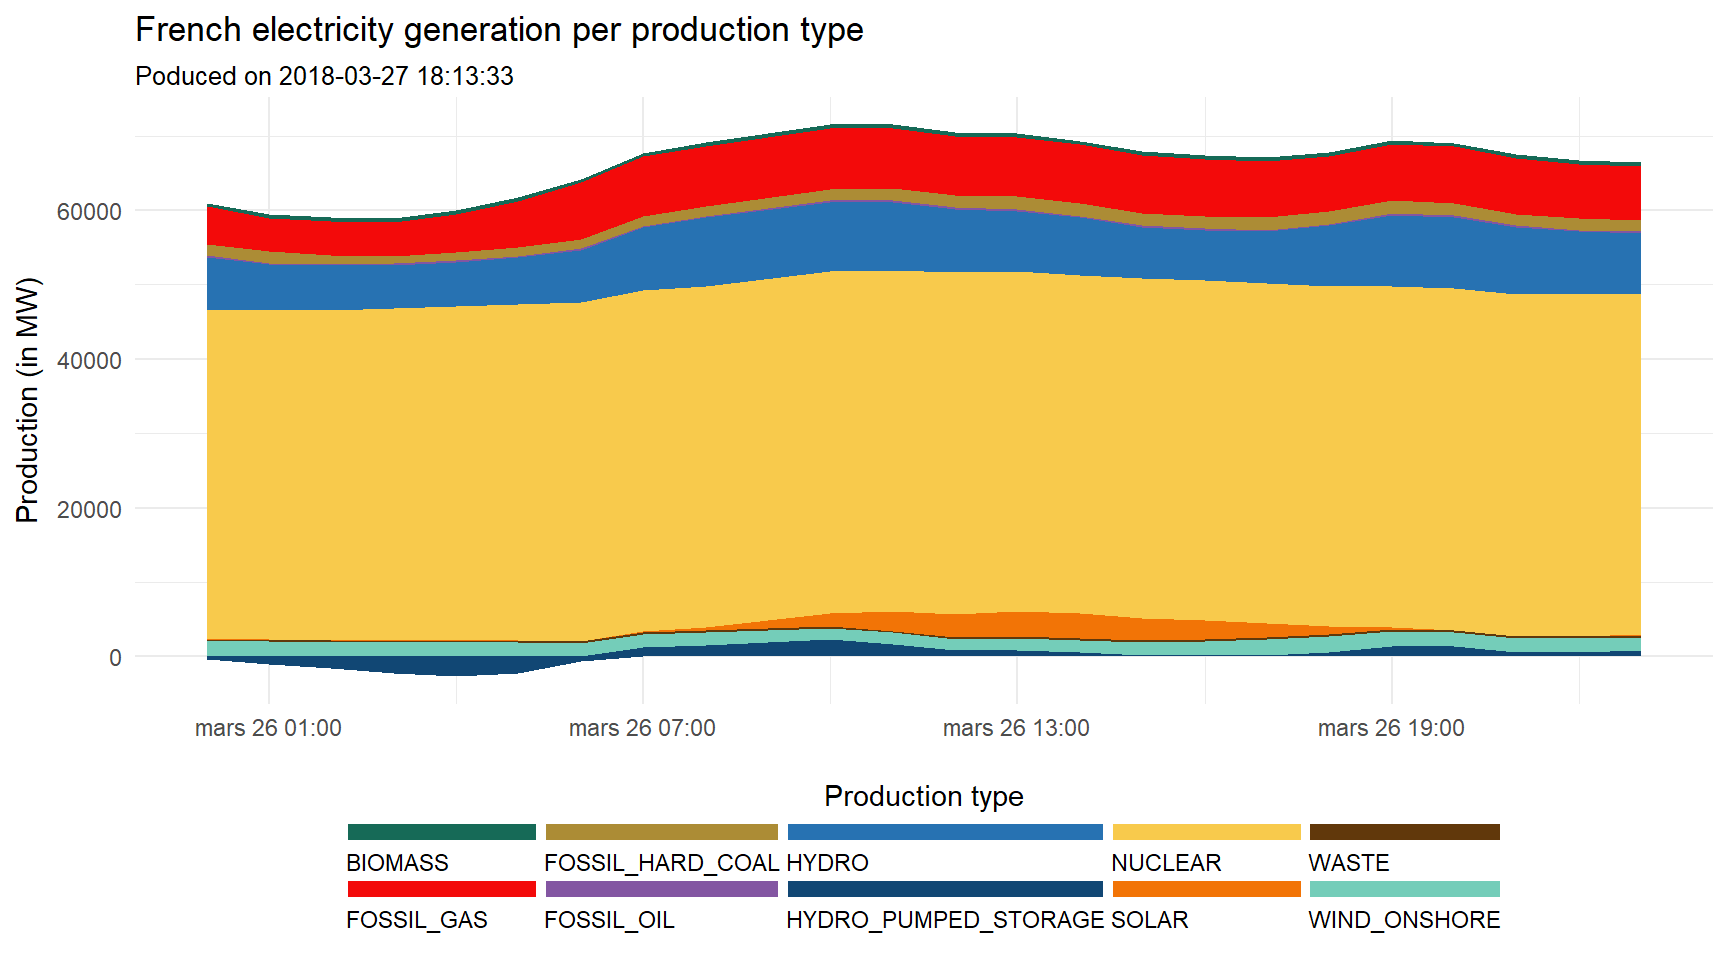
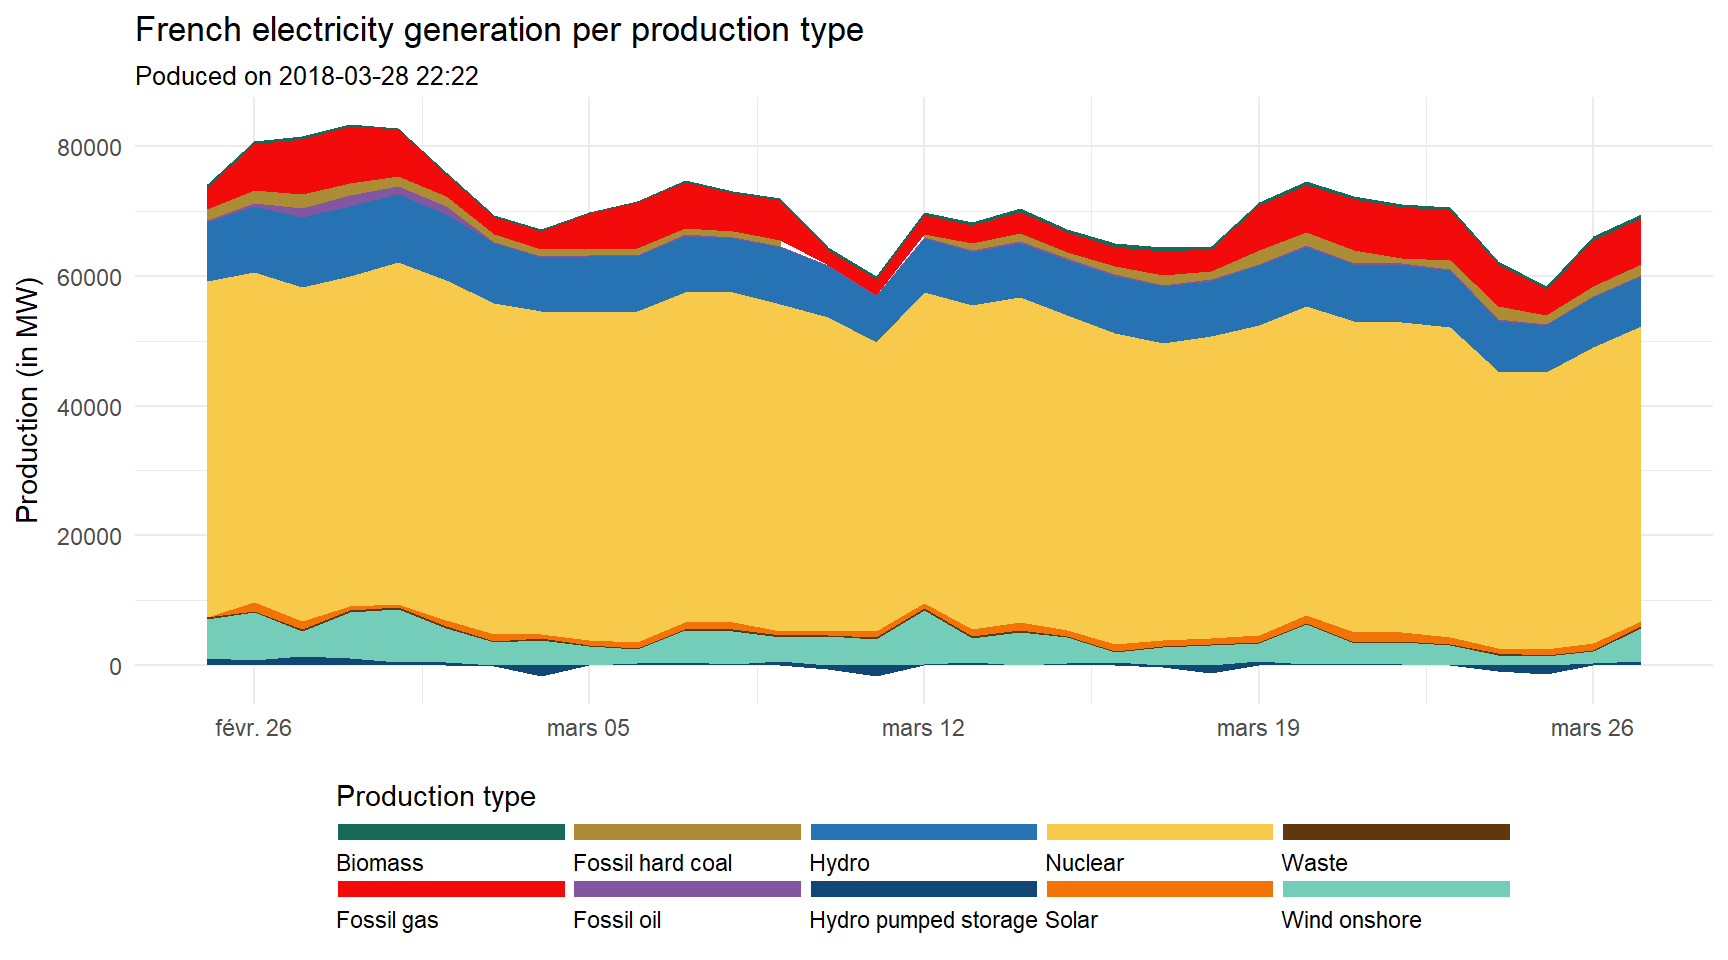
bugs + docs

diff --git a/README.md b/README.md
@@ -77,11 +77,12 @@ Actual generation
 Generation data aggregated by sector and produced per group (in MW) on an intradaily basis for net generation injected into the network.
 
 ``` r
-prod_type <- get_actual_generation(
-  resource = "actual_generations_per_production_type", 
-  start_date = Sys.Date() - 1
+prod_type_30 <- get_actual_generation(
+  resource = "actual_generations_per_production_type",
+  start_date = Sys.Date() - 30, end_date = Sys.Date()
 )
-autoplot(prod_type)
+
+autoplot(prod_type_30, by_day = TRUE)
 ```
 
 <img src="images/generation-1.png" width="864" />
